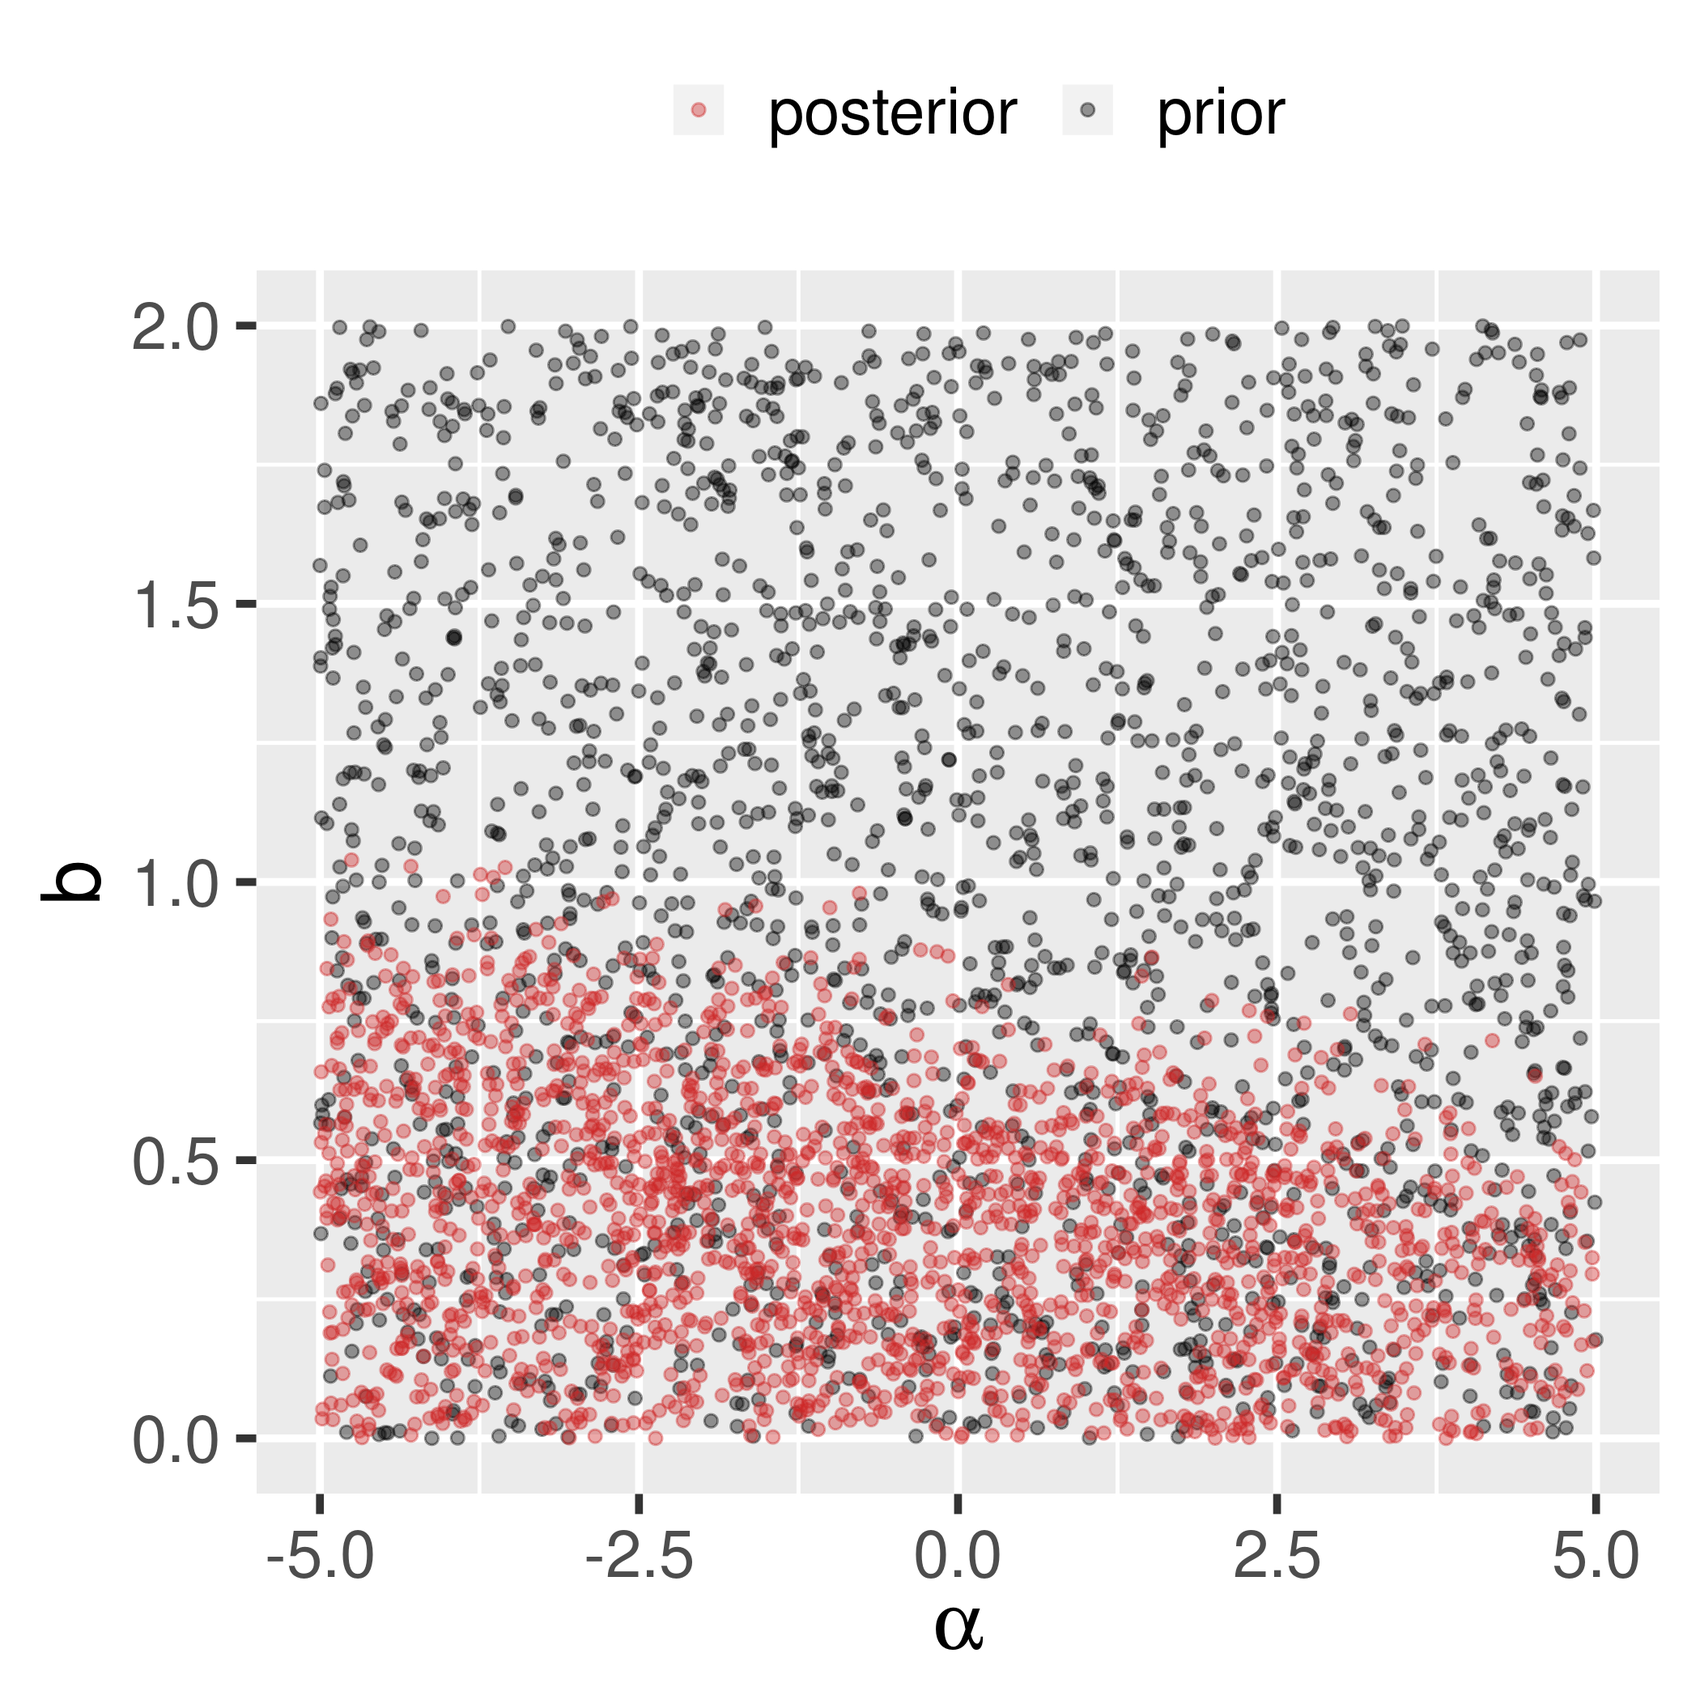
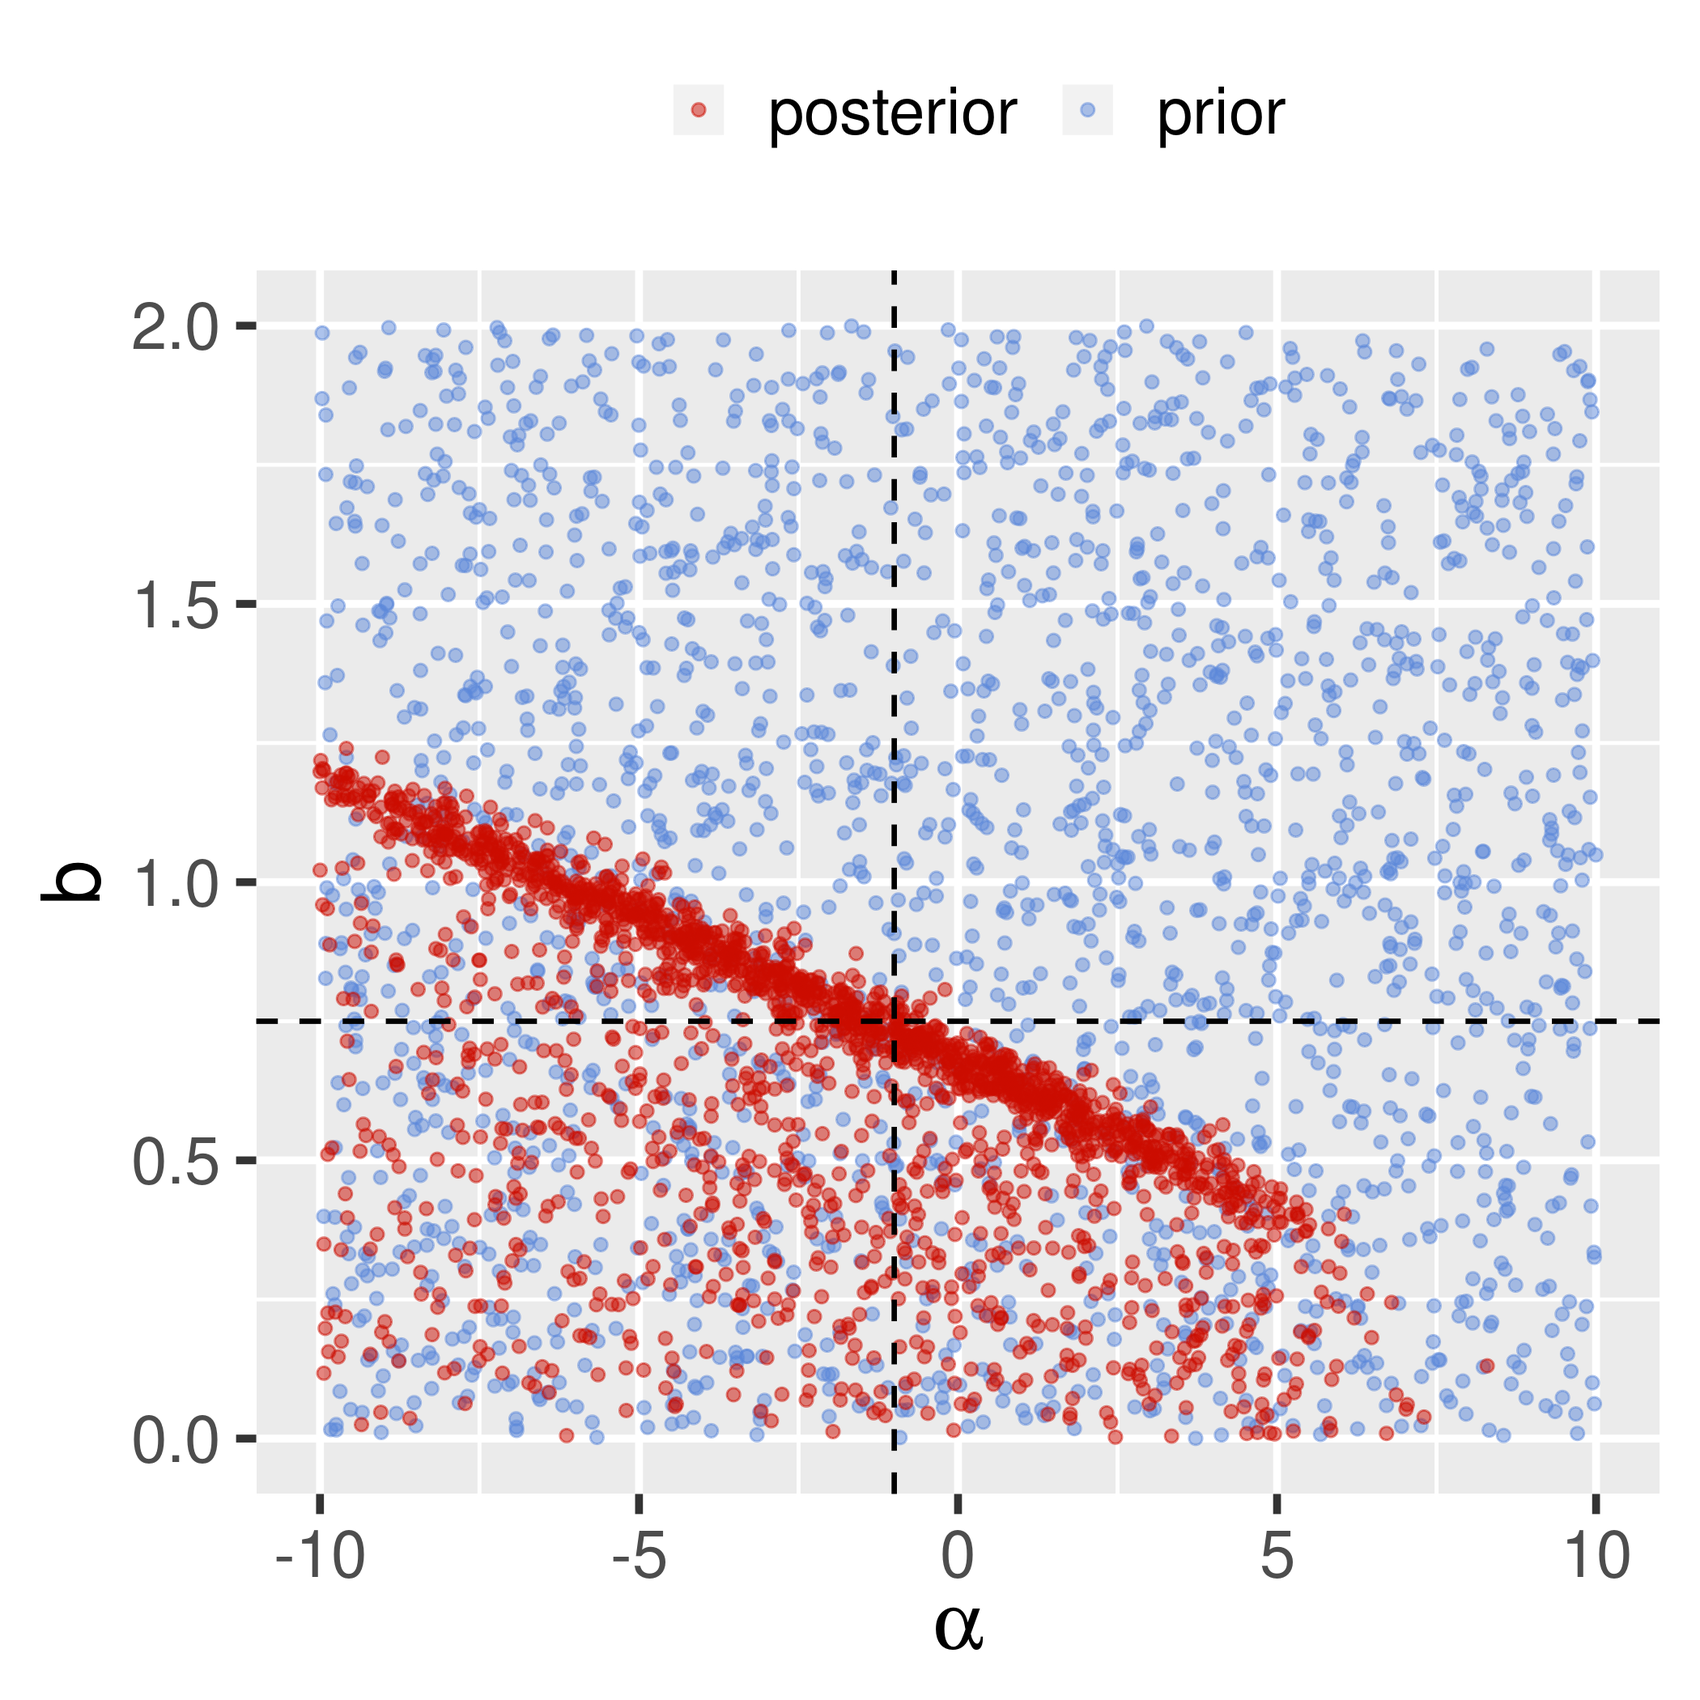
[Bayes]: WIP

diff --git a/chapters/bayes_diff_chapter.tex b/chapters/bayes_diff_chapter.tex
@@ -75,7 +75,7 @@ community \citep{JGRA:JGRA9345}.
 \begin{equation}\label{eq:raddiffusion}
   \frac{\partial{f}}{\partial{t}} = \ell^2 \frac{\partial}{\partial{\ell}} \left( 
     \frac{\kappa(\ell, t)}{\ell^{2}} \frac{\partial{f}}{\partial{\ell}}
-  \right)_{\mathcal{M}, J} - \lambda(\ell, t) f + Q(\ell, t)
+  \right)_{\mathcal{M}, J} - \lambda(\ell, t) f + q(\ell, t)
 \end{equation}
 %
 The \emph{phase space density} $f$ is a function of the spatial coordinate $\ell$ which denotes the 
@@ -85,19 +85,21 @@ as follows.
 \begin{enumerate}
 \item $f$: The particle density, for a given value of the first and second adiabatic invariants, 
 as a function of space $l$ and time $t$.
-\item $\kappa(\ell, t)$: Diffusion field.
-\item $\lambda(\ell, t)$: Loss rate, this is a non-negative quantity which indicates how quickly 
-particles are lost from the radiation belts, due to mechanisms other than radial diffusion.
-\item $Q(\ell, t)$: Particle injection rate.
+\item $\kappa(\ell, t)$: A space and time varying diffusion field.
+\item $\lambda(\ell, t)$: The particle loss rate, a non-negative quantity which indicates how 
+quickly particles are lost from the radiation belts, due to mechanisms other than radial diffusion.
+\item $q(\ell, t)$: An optional particle injection rate (or source term). If this term is omitted 
+      (i.e. $q(\ell, t) = 0$) then boundary conditions $f(\ell_{min}, t)$ and $f(\ell_{max}, t)$ 
+      must be specified to solve \cref{eq:raddiffusion}. 
 \end{enumerate}
 %
-Interested readers can go to section \S~\ref{sec:plasmadiff} for a more detailed explanation on 
+Interested readers can refer to section \S~\ref{sec:plasmadiff} for a more detailed explanation on 
 plasma diffusion, adiabatic invariants and plasma motion in the Earth's radiation belts. 
 
 \subsubsection*{Diffusion Parameters}
 
 To solve the radial diffusion system (\cref{eq:raddiffusion}), the quantities $\kappa(\ell, t)$, 
-$\lambda(\ell, t)$ and $Q(\ell, t)$ need to be specified. It is a common practice 
+$\lambda(\ell, t)$ and $q(\ell, t)$ need to be specified. It is a common practice 
 \citetext{see \citealp{GRL:GRL10762}, \citealp{JGRA:JGRA15067}, \citealp{JGRA:JGRA18021} and
 \citealp{GRL:GRL22815}} to parametrize the diffusion field $\kappa$ and loss rate $\lambda$ as 
 %
@@ -109,16 +111,29 @@ The quantities $\alpha$, $\beta$ and $b$ above are parameters which define the d
 loss rate while the quantity $Kp(t)$ is known as the Kp index, a measured quantity which stands as 
 a proxy for the global geomagnetic activity \citep{BartelsKp}.
 
+In \cref{eq:q} we propose a parametrization of the source term $q$ which can approximate particle 
+injection through the upper boundary of the radiation belt. 
+%
+\begin{equation}\label{eq:q}
+q(\ell,t)  \sim \exp(\alpha - \beta (\ell - \ell_{max})^2) 10^{b Kp(t)}
+\end{equation}
+%
+The expression above is similar to the formulations of the diffusion and loss terms presented 
+earlier, however it is distinguished by its rapid spatial decay away from the upper boundary 
+$\ell_{max}$.  
 
-\section{Inverse Problems}\label{sec:inv}
+\section{PDE Inverse Problems}\label{sec:inv}
 
-The inverse problem can be stated as follows: given a set of noisy observations $y$ scattered in 
-the space-time domain, of a physical quantity $f$ governed by the dynamical system 
-$\mathcal{L}_{\theta} f = Q_{\theta}$, estimate the parameters $\theta$ of the dynamical system 
-$(\mathcal{L}_{\theta}, Q_{\theta})$, where $\mathcal{L}_{\theta}$ is a differential operator, 
-$Q_{\theta}$ is a \emph{source term} and $\theta$ is a collection of parameters which specify the 
-operator and the source term. In the radial diffusion system shown in \cref{eq:raddiffusion}, 
-$\mathcal{L}$ takes the form  
+The PDE constrained inverse problem is defined as follows: given a set of noisy observations 
+$\mathcal{D} = \left[ (x_i, y_i): x \in \mathcal{X} \times [0, \infty), y \in \mathbb{R} \right]$ 
+of a physical quantity $f(x)$ which is governed by the PDE 
+$\mathcal{L}_{\theta} f(x) = q_{\theta}(x)$, estimate the parameters $\theta$ of the PDE 
+$(\mathcal{L}_{\theta}, q_{\theta})$. Here $\mathcal{X} \times [0, \infty)$ is the spatiotemporal 
+domain, $\mathcal{L}_{\theta}$ is a differential operator, $q_{\theta}$ is a \emph{source term}, 
+and $\theta$ is a collection of parameters which specify the operator and the source term.
+%
+For the radial diffusion system shown in \cref{eq:raddiffusion}, $\mathcal{L}_{\theta}$ is defined 
+as   
 %
 \[
   \mathcal{L}_{\theta} =
@@ -129,9 +144,9 @@ $\mathcal{L}$ takes the form
     \lambda(\ell,t).  
 \] 
 %
-In this case $\theta$ would be a collection of parameters which would specify the analytic 
-expressions for $\kappa(\ell, t), \ \lambda(\ell,t) \ \text{and} \ Q(\ell,t)$, such as 
-\cref{eq:paramExp}.
+In this case $\theta$ would be a collection of parameters which would specify closed form 
+expressions for $\kappa(\ell, t), \ \lambda(\ell,t) \ \text{and} \ q(\ell,t)$ such as 
+\cref{eq:paramExp,eq:q}.
 
 \subsection{Related Work}
 
@@ -173,6 +188,19 @@ for calculating solutions to the Stokes problem. These approaches generally revo
 decomposing the solution into two components, i.e. the first one satisfying the boundary conditions 
 and the second one represented by the feedforward network.
 
+\paragraph{Probabilistic Numeric Methods} (PNM), an area which aims to account for errors and 
+uncertainties in numerical methods, arising from loss of precision due to limitations of time and 
+hardware \citep{hennig2015probabilistic}. Applications of PNM range from Bayesian quadrature, 
+optimization, mesh-free solutions of PDEs, and PDE constrained Bayesian inverse problems. 
+
+\citet{conrad2017statistical} propose a probabilistic time integrator for quantifying probability 
+measures over solutions of ODE systems. \citet{girolamiSullivanPDE} introduce a probabilistic 
+mesh-less method (PMM) for quantifying uncertainty over the solution space of Linear PDEs, their 
+model consists of a GP prior which is conditioned on a finite set of design points 
+(or colocation points) which constrain the GP based on the PDE dynamics and its boundary 
+conditions. The authors apply the PMM method for quantifying uncertainties in the forward as well 
+as the inverse problem, and also provide theoretical results regarding the rates of convergence 
+of the posterior distribution in both cases.
 
 \section{Methodology}
 
@@ -203,13 +231,12 @@ a scalar intercept.
 
 Further let $\mathcal{C} ={(x^{c}_{i}, q_{i}): i = 1 \cdots n_{c}}$ be a set of colocation points 
 on which we aim to enforce radial diffusion dynamics. The values $q_{i}$ represent the particle 
-injection rate $Q$ at $x^c$ and are calculated each time the parameters of $Q$ are sampled, by 
-evaluating the expression $Q(\ell,t) = (\alpha_{Q}l^{\beta_{Q}} + \gamma_{Q})10^{b_{Q}Kp(t)}$.
+injection rate at $x^c$, and are calculated using \cref{eq:q}.
 
 We exploit the linearity of the differential operator $\mathcal{L}_{\theta}$ and note that 
 $\mathcal{L}_{\theta} [\hat{f}(x)] = w^{T} \mathcal{L}_{\theta}[\varphi(x)] + \mathcal{L}_{\theta}[b]$, 
 yielding an estimator 
-$\hat{Q}(x) = w^{T}\psi(x) + \mathcal{L}_{\theta}[b]$ where $\psi_{\theta}(x) = \mathcal{L}_{\theta}[\varphi(x)]$. 
+$\hat{q}(x) = w^{T}\psi(x) + \mathcal{L}_{\theta}[b]$ where $\psi_{\theta}(x) = \mathcal{L}_{\theta}[\varphi(x)]$. 
 Determining $w \in \mathbb{R}^d$ can now be cast as the following constrained $L_2$ regularised 
 least squares problem.
 %
@@ -405,8 +432,8 @@ the running sample statistics of the Markov Chain Monte Carlo (MCMC) procedure.
     \hline
     \textbf{Parameter} & \textbf{Prior}\\
     \hline
-    $\alpha$ & $\text{Uniform}(-5, 5)$ \\
-    $\beta$  & $\text{Uniform}(0, 5)$ \\ 
+    $\alpha$ & $\text{Uniform}(-10, 10)$ \\
+    $\beta$  & $\text{Uniform}(0, 10)$ \\ 
     $b$ & $\text{Uniform}(0, 2)$ \\
     \hline
   \end{tabular}
@@ -419,7 +446,7 @@ the running sample statistics of the Markov Chain Monte Carlo (MCMC) procedure.
 \subsection{Synthetic Data}
 
 For the purposes of the experiment, the parameters of $\kappa$ and $\lambda$ are fixed while MCMC 
-inference is performed on the parameters of $Q$. The prior distributions chosen for the parameters 
+inference is performed on the parameters of $q$. The prior distributions chosen for the parameters 
 are shown in \cref{tab:prior}. The posterior distribution over the parameters of $\lambda$ is 
 sampled via adaptive Metropolis, the first 5000 samples are kept aside as the \emph{burn in} period
 of the Markov Chain.
@@ -444,6 +471,7 @@ of the Markov Chain.
     }
     \label{fig:kpProfile}
   \end{subfigure}
+  \caption{Synthetic data generation for experiments.}
 \end{figure*}
 
 \subsubsection*{Data Generation}
@@ -456,7 +484,7 @@ of the Markov Chain.
     \hline
     \textbf{Quantity}  & $\alpha$ & $\beta$ & $b$ \\
     \hline
-    $Q$ & $-1$  & $2.5$ & $0.5$  \\
+    $q$ & $-1$  & $2.5$ & $0.75$  \\
     $\kappa$  & $\log(4.731 \times 10^{-10})$ & $10$ & $0.506$ \\
     $\lambda$ & $\log(0.3678)$ & $0.5$ & $-0.2$ \\
     \hline
@@ -465,97 +493,71 @@ of the Markov Chain.
 
 The technique presented is applied on synthetic data generated using a radial diffusion solver, 
 the ground truth values of the radial diffusion parameters are listed in \cref{tab:ground-truth}.
-A slightly modified parameterization is adopted for the particle injection $Q$ as shown in 
-\cref{eq:q} below. The particle injection has a strictly time varying component due to presence of 
-a constant $\gamma$.
 %
-\begin{equation}\label{eq:q}
-Q(\ell,t)  \sim \exp(\alpha - \beta (\ell - \ell_{max})^2) 10^{b Kp(t)}
-\end{equation}
+The initial phase space density $f(t = 0)$ is set as follows (see \cref{fig:initialpsd}):
 %
-The initial phase space density $f(t = 0)$ and the time trajectory of the Kp index are assumed to 
-be set as follows.
+\begin{align*}
+f(t = 0) &= 2000 + 500(C_{3}(\ell_*) - C_{5}(\ell_*)) \\
+\ell_* &= 2\frac{\ell - \ell_{min}}{\ell_{max} - \ell_{min}} - 1 ,\\
+\end{align*}
 %
-\begin{align}
-f(t = 0) &= 4000 + 1000(C_{3}(\ell_*) - C_{5}(\ell_*)) \\
-\ell_* &= 2\frac{\ell - \ell_{min}}{\ell_{max} - \ell_{min}} - 1 \\
-Kp(t) &= \left\{\begin{matrix}
-2.5 + 4t & 0 \leq t < 1.5\\ 
-8.5 & 1.5 < t \leq 3\\ 
-17.5-3t & 3 <  t \leq 5 \\ 
-2.5 & 5 < t\\ 
-\end{matrix}\right.
-\end{align}
+where $C_n(.)$ is the is the Chebyshev polynomial of degree $n$. The evolution of the Kp index is 
+assumed to be an idealised version of a geomagnetic storm (see \cref{fig:kpProfile}) and 
+defined as 
+\[
+  Kp(t) = \left\{\begin{matrix}
+    2.5 & 0 \leq t < 2\\ 
+    2.5 + 4(t - 2d) & 2 \leq t < 3.5\\ 
+    8.5 & 3.5 \leq  t < 5 \\ 
+    23.5 - 3t & 5 \leq t < 7\\
+    2.5 & t \geq 7\\ 
+    \end{matrix}\right. \ .
+\] 
 %
-Where $C_n(.)$ is the is the Chebyshev polynomial of degree $n$. The evolution of the Kp index 
-\citet{BartelsKp} is assumed such that it mimics a geomagnetic storm event. The radial diffusion 
-solver is run for domain limits $\ell \in [1, 7], t \in [0, 5]$ with $200$ bins in the spatial and 
-$50$ bins in the temporal domains respectively.
-
-After the approximate solution profiles of $f$ are generated, the points are sub-sampled uniformly 
-such that $100$ points lying in the interior of the domain and $30$ points at the initial time step 
-($t = 0$) are selected. These observations are then perturbed by Gaussian noise to yield the final 
-observation set $\mathcal{D}$ which is fed, as training data to the surrogate model $\hat{f}(x)$.
+The radial diffusion solver is run for domain limits $\ell \in [1, 7], t \in [0, 9]$ with $200$ 
+bins in the spatial and $50$ bins in the temporal domains respectively. After the approximate 
+solution profiles of $f$ are generated, the points are sub-sampled uniformly such that $100$ points 
+lying in the interior of the domain and $30$ points at the initial time step ($t = 0$) are 
+selected. These observations are then perturbed by Gaussian noise to yield the final 
+observation set $\mathcal{D}$ which is provided to the surrogate model $\hat{f}(x)$.
 
 
 \begin{figure*}[!htb]
   \centering
-  \begin{subfigure}[b]{0.75\textwidth}
+  \begin{subfigure}[b]{0.5\textwidth}
     \centering
-    \includegraphics[width=0.6\textwidth]{histogram_Q_alpha_prior.png}
-    \caption{ 
-      Prior samples for the parameter $\alpha$, of $Q(\ell, t)$, 
-      red dotted line indicates the ground truth.
-    }
-    \label{fig:alphaprior}
+    \includegraphics[width=0.6\textwidth]{density_Q_b.png}
+    \caption{ Parameter $b$}
+    \label{fig:qb}
   \end{subfigure}
   \hfill
-  \begin{subfigure}[b]{0.75\textwidth}
+  \begin{subfigure}[b]{0.5\textwidth}
     \centering
-    \includegraphics[width=0.6\textwidth]{histogram_Q_alpha_posterior.png}
-    \caption{
-      Posterior samples for the parameter $\alpha$, of $Q(\ell, t)$, 
-      red dotted line indicates the ground truth.}
-    \label{fig:alpha}
-  \end{subfigure}
-\end{figure*}
-
-
-\begin{figure*}[!htb]
-  \centering
-  \begin{subfigure}[b]{0.75\textwidth}
-    \centering
-    \includegraphics[width=0.6\textwidth]{histogram_Q_beta_prior.png}
-    \caption{ 
-      Prior samples for the parameter $\beta$, of $Q(\ell, t)$, 
-      red dotted line indicates the ground truth.
-    }
-    \label{fig:betaprior}
+    \includegraphics[width=0.6\textwidth]{density_Q_beta.png}
+    \caption{Parameter $\beta$}
+    \label{fig:qbeta}
   \end{subfigure}
   \hfill
-  \begin{subfigure}[b]{0.75\textwidth}
+  \begin{subfigure}[b]{0.5\textwidth}
     \centering
-    \includegraphics[width=0.6\textwidth]{histogram_Q_beta_posterior.png}
-    \caption{
-      Posterior samples for the parameter $\beta$, of $Q(\ell, t)$, 
-      red dotted line indicates the ground truth.
-    }
-    \label{fig:beta}
+    \includegraphics[width=0.6\textwidth]{density_Q_alpha.png}
+    \caption{Parameter $\alpha$}
+    \label{fig:qalpha}
   \end{subfigure}
+  \caption{Comparing prior and posterior densities of the parameters of $q(\ell, t)$, 
+  the black dotted line indicates the ground truth.}  
 \end{figure*}
 
 
 \section{Results}
 
-The inferred posterior distribution for parameters of the particle injection rate $Q(\ell, t)$ in 
-\cref{fig:alpha,fig:beta,fig:b} while the samples from each prior distribution are shown 
-in \cref{fig:alphaprior,fig:betaprior,fig:bprior}.
-
-We see that the marginal posterior distributions of each parameter have high probability density 
-near the ground truth, and that they are heavy tailed because there are often large regions of the 
-parameter space which produce similar solutions for the phase space density $f$. Apart from 
-identifying of parameters, the model also helps in significant reduction of uncertainty from prior 
-to posterior for the parameters $\beta$, $\gamma$ and $b$.
+The inferred posterior distribution for parameters of the particle injection rate $q(\ell, t)$ in 
+\cref{fig:qalpha,fig:qbeta,fig:qb}. We see that the marginal posterior distributions of each 
+parameter have high probability density near the ground truth, and that they are heavy tailed 
+because there are often large regions of the parameter space which produce similar solutions for 
+the phase space density $f$. Apart from identifying of parameters, the model also helps in 
+significant reduction of uncertainty from prior to posterior for the parameters $\beta$, 
+$\gamma$ and $b$.
 
 The strength of the proposed method is the ability to quantify the uncertainty in diffusion 
 parameters from a sparse set of observations. Due to the formulation of the surrogate as a dual 
@@ -565,27 +567,6 @@ warrants further research in its improvement.
 
 
 
-\begin{figure*}[!htb]
-  \centering
-  \begin{subfigure}[b]{0.75\textwidth}
-    \centering
-    \includegraphics[width=0.6\textwidth]{histogram_Q_b_prior.png}
-    \caption{ 
-      Prior samples for the parameter $b$, of $Q(\ell, t)$, 
-      red dotted line indicates the ground truth.
-    }
-    \label{fig:bprior}
-  \end{subfigure}
-  \hfill
-  \begin{subfigure}[b]{0.75\textwidth}
-    \centering
-    \includegraphics[width=0.6\textwidth]{histogram_Q_b_posterior.png}
-    \caption{
-      Posterior samples for the parameter $b$, of $Q(\ell, t)$, 
-      red dotted line indicates the ground truth.}
-    \label{fig:b}
-  \end{subfigure}
-\end{figure*}
 
 \begin{figure*}[!htb]
   \centering
@@ -593,8 +574,7 @@ warrants further research in its improvement.
     \centering
     \includegraphics[width=0.6\textwidth]{prior_posterior_scatter_Q_alpha_b.png}
     \caption{ 
-      Comparing samples drawn from the prior and posterior distributions of 
-      parameters $\alpha$ and $b$  
+      Scatter chart: $\alpha$ versus $b$.  
     }
     \label{fig:alphavsb}
   \end{subfigure}
@@ -603,11 +583,13 @@ warrants further research in its improvement.
     \centering
     \includegraphics[width=0.6\textwidth]{prior_posterior_scatter_Q_beta_b.png}
     \caption{
-      Comparing samples drawn from the prior and posterior distributions of 
-      parameters $\beta$ and $b$  
+      Scatter chart: $\beta$ versus $b$.  
     }
     \label{fig:betavsb}
   \end{subfigure}
+  \caption{
+    Comparing prior and posterior samples drawn from parameters of $q(\ell, t)$.
+  }
 \end{figure*}
 
 %\bibliographystyle{plainnat}
